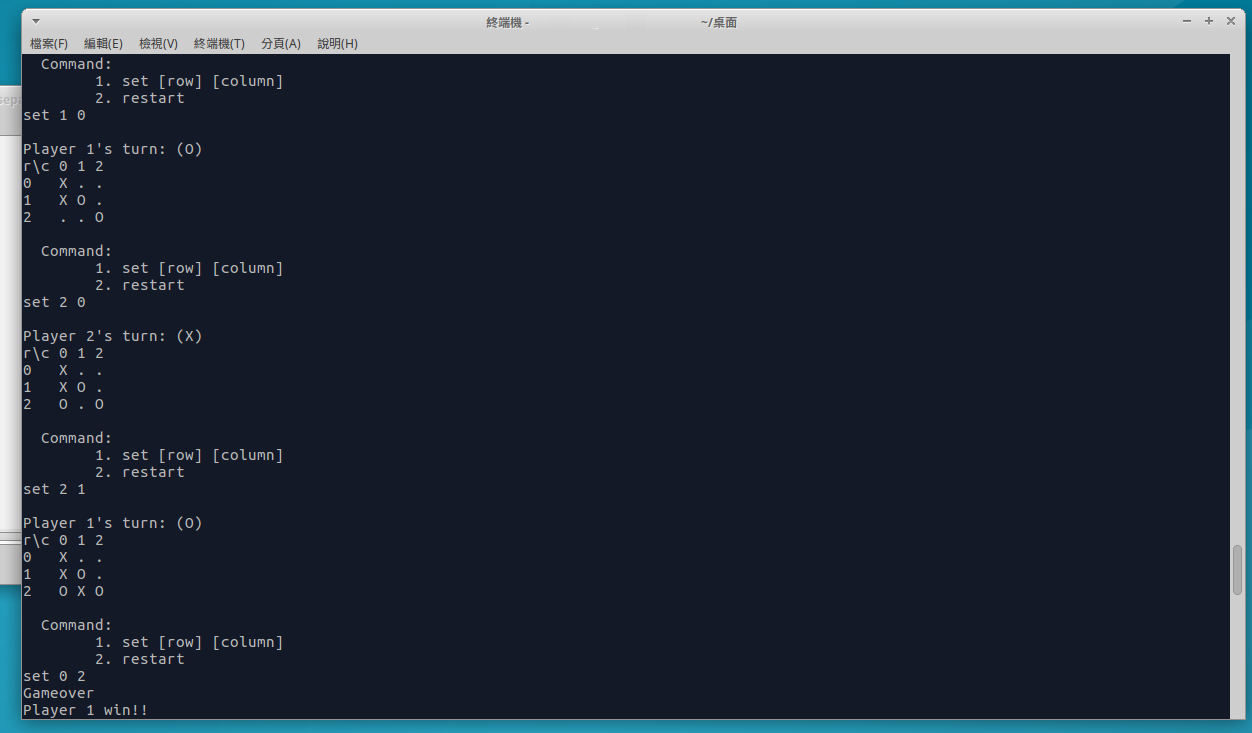
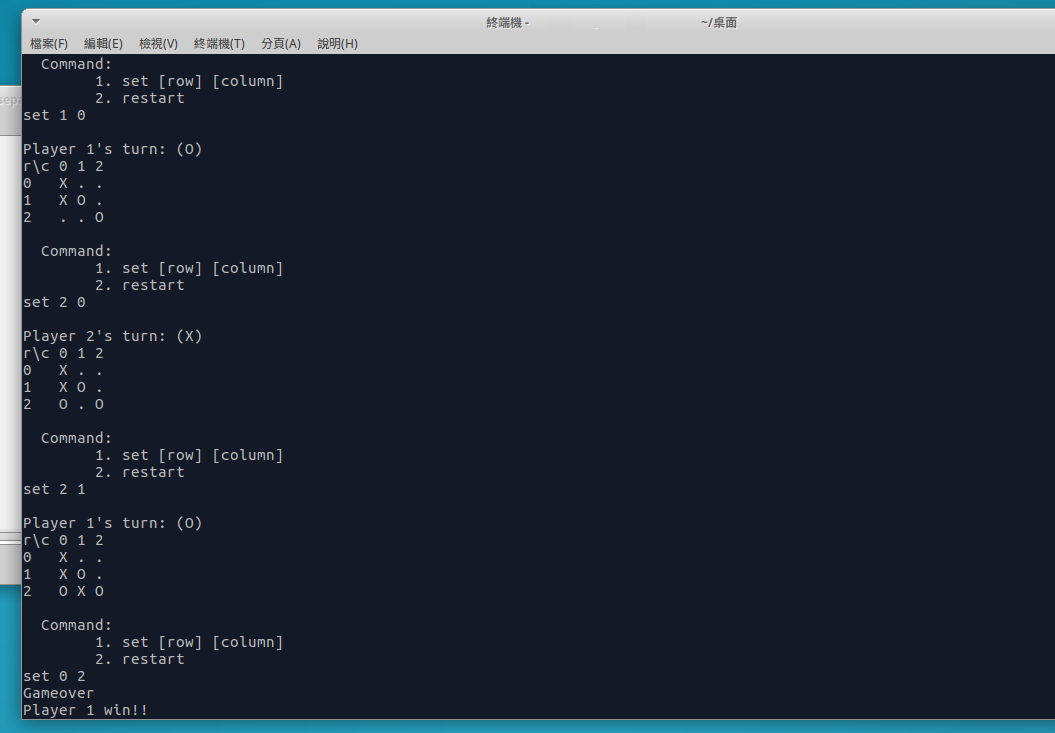
Magnify screenshot size

diff --git a/README.md b/README.md
@@ -13,5 +13,6 @@ Besides, every input is also wrapped up in a while loop, so that it continues on
 
 After all, in my opinion, the core of this game was the use of Array in bash, the assigning and dereferencing of it. <br>
 
-Screenshot:
-![Snapshot](/screenshot.png)
+## Screenshot
+
+![Snapshot](screenshot.png)
